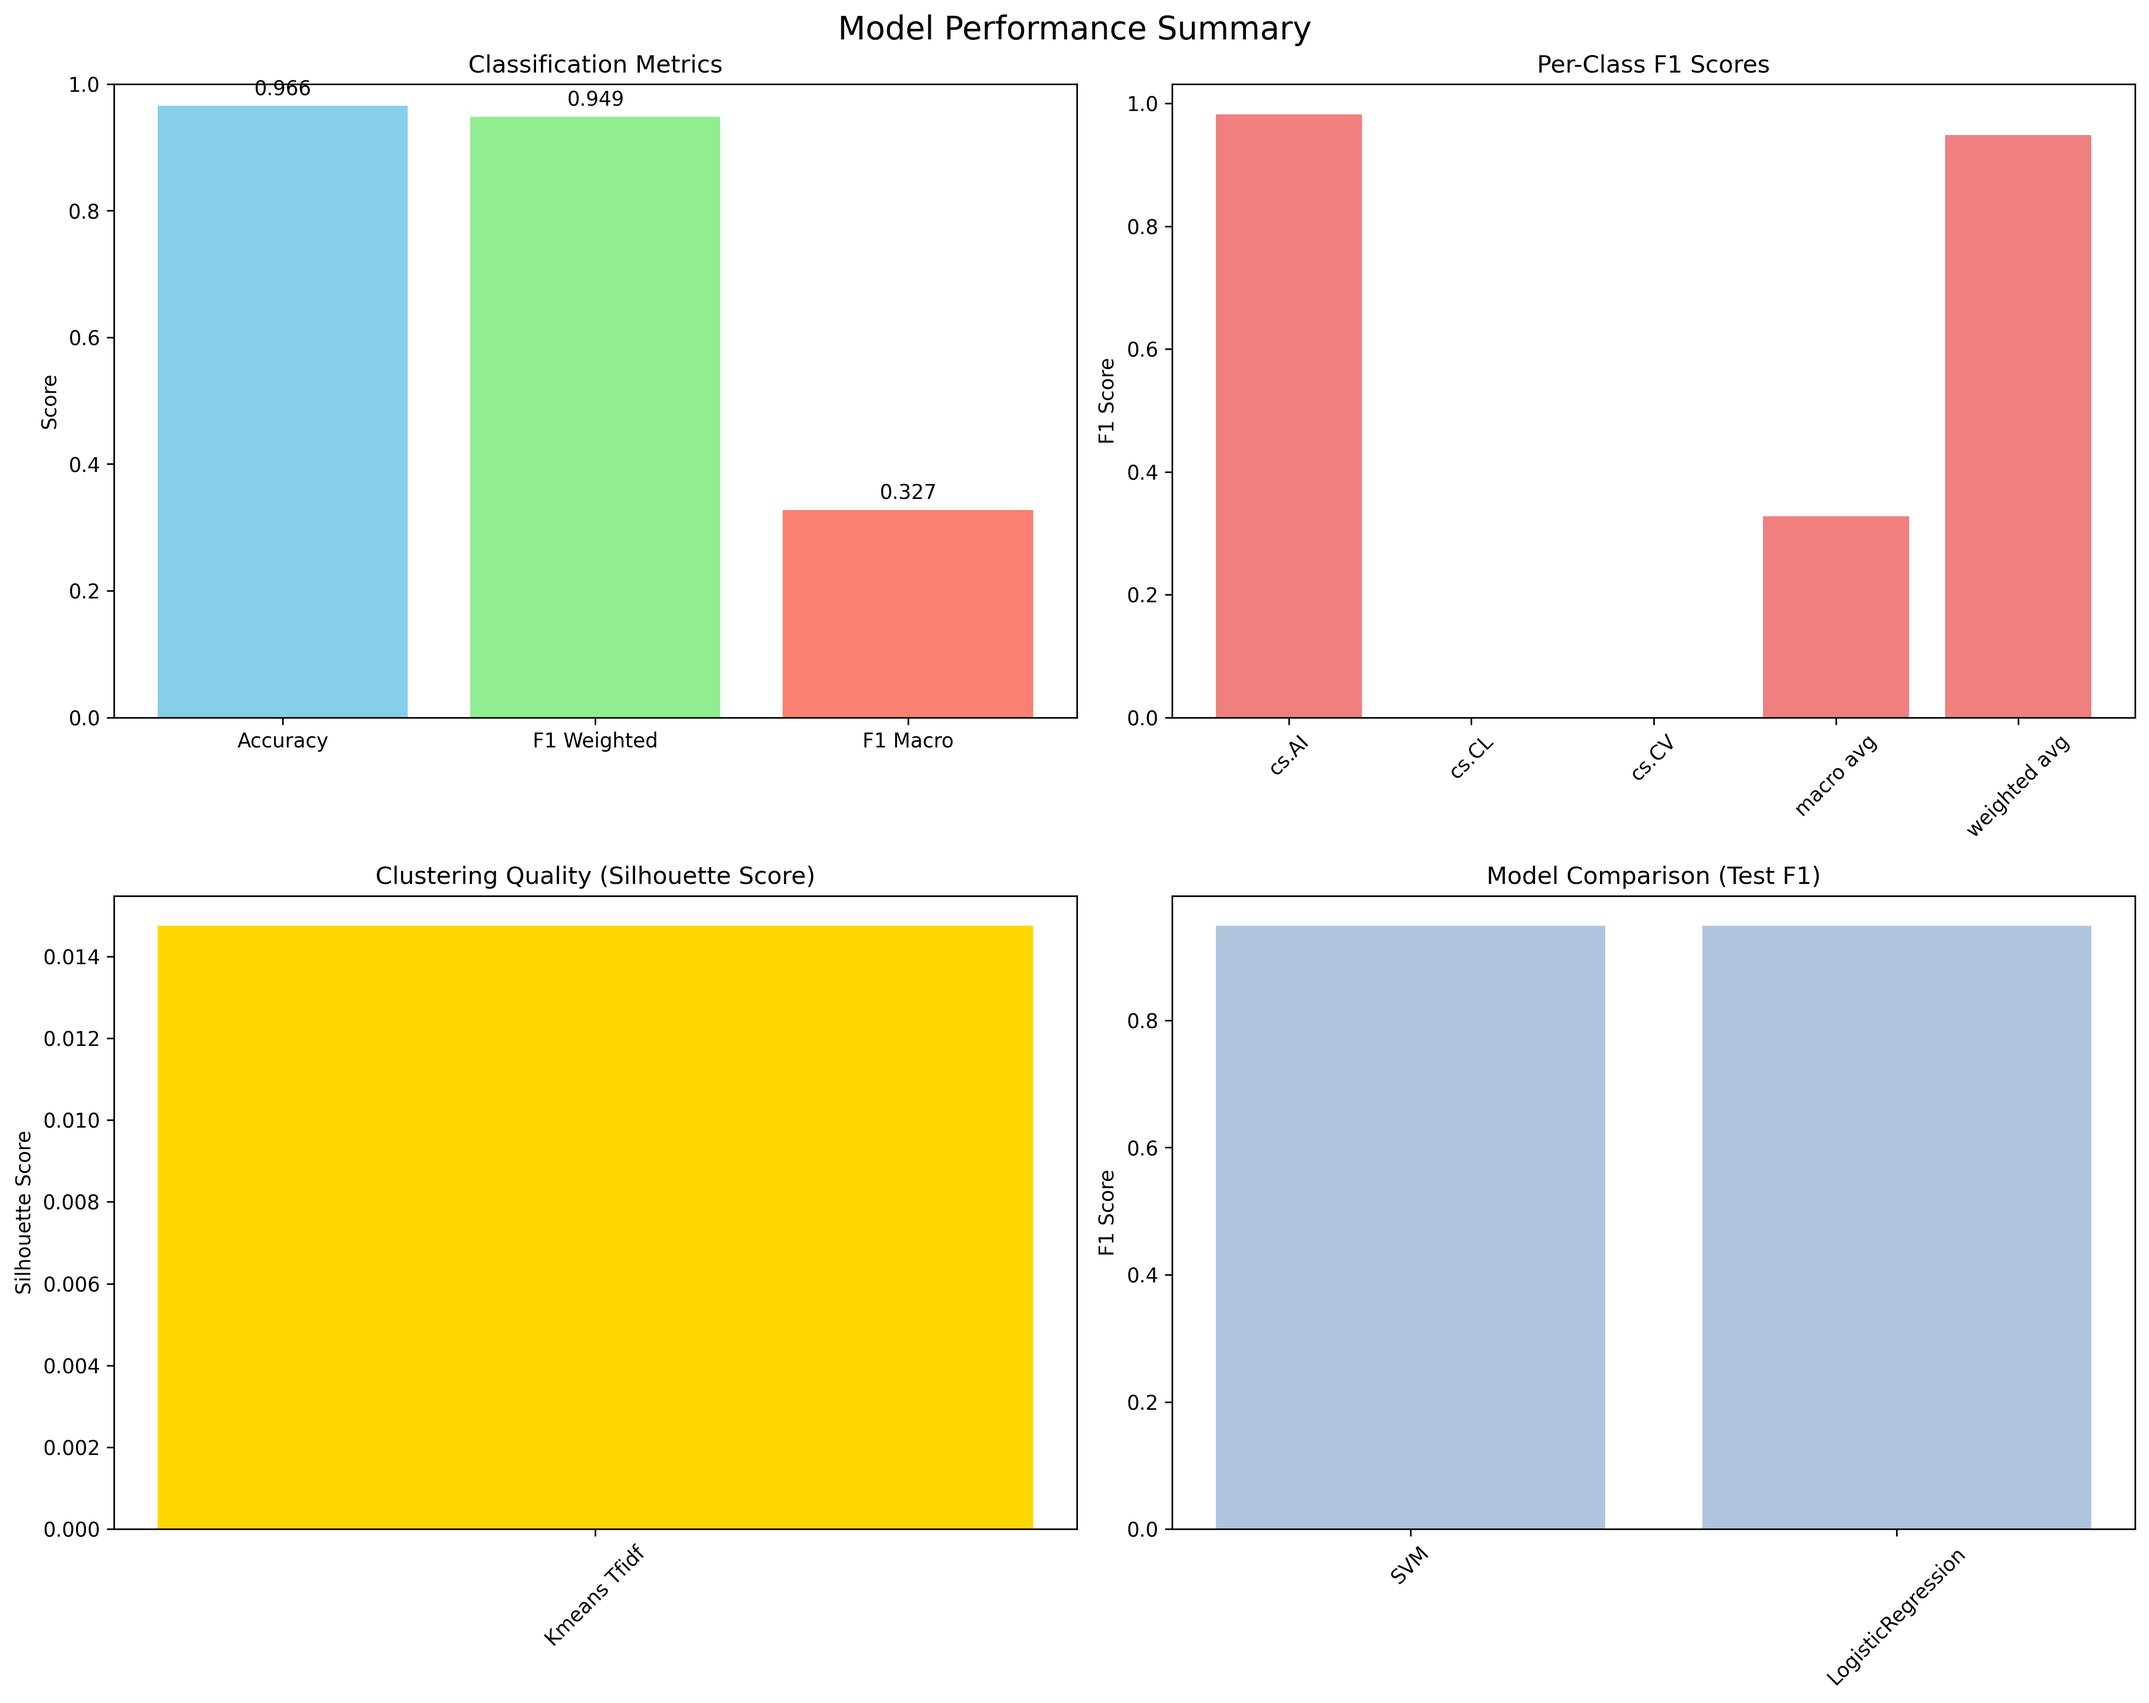
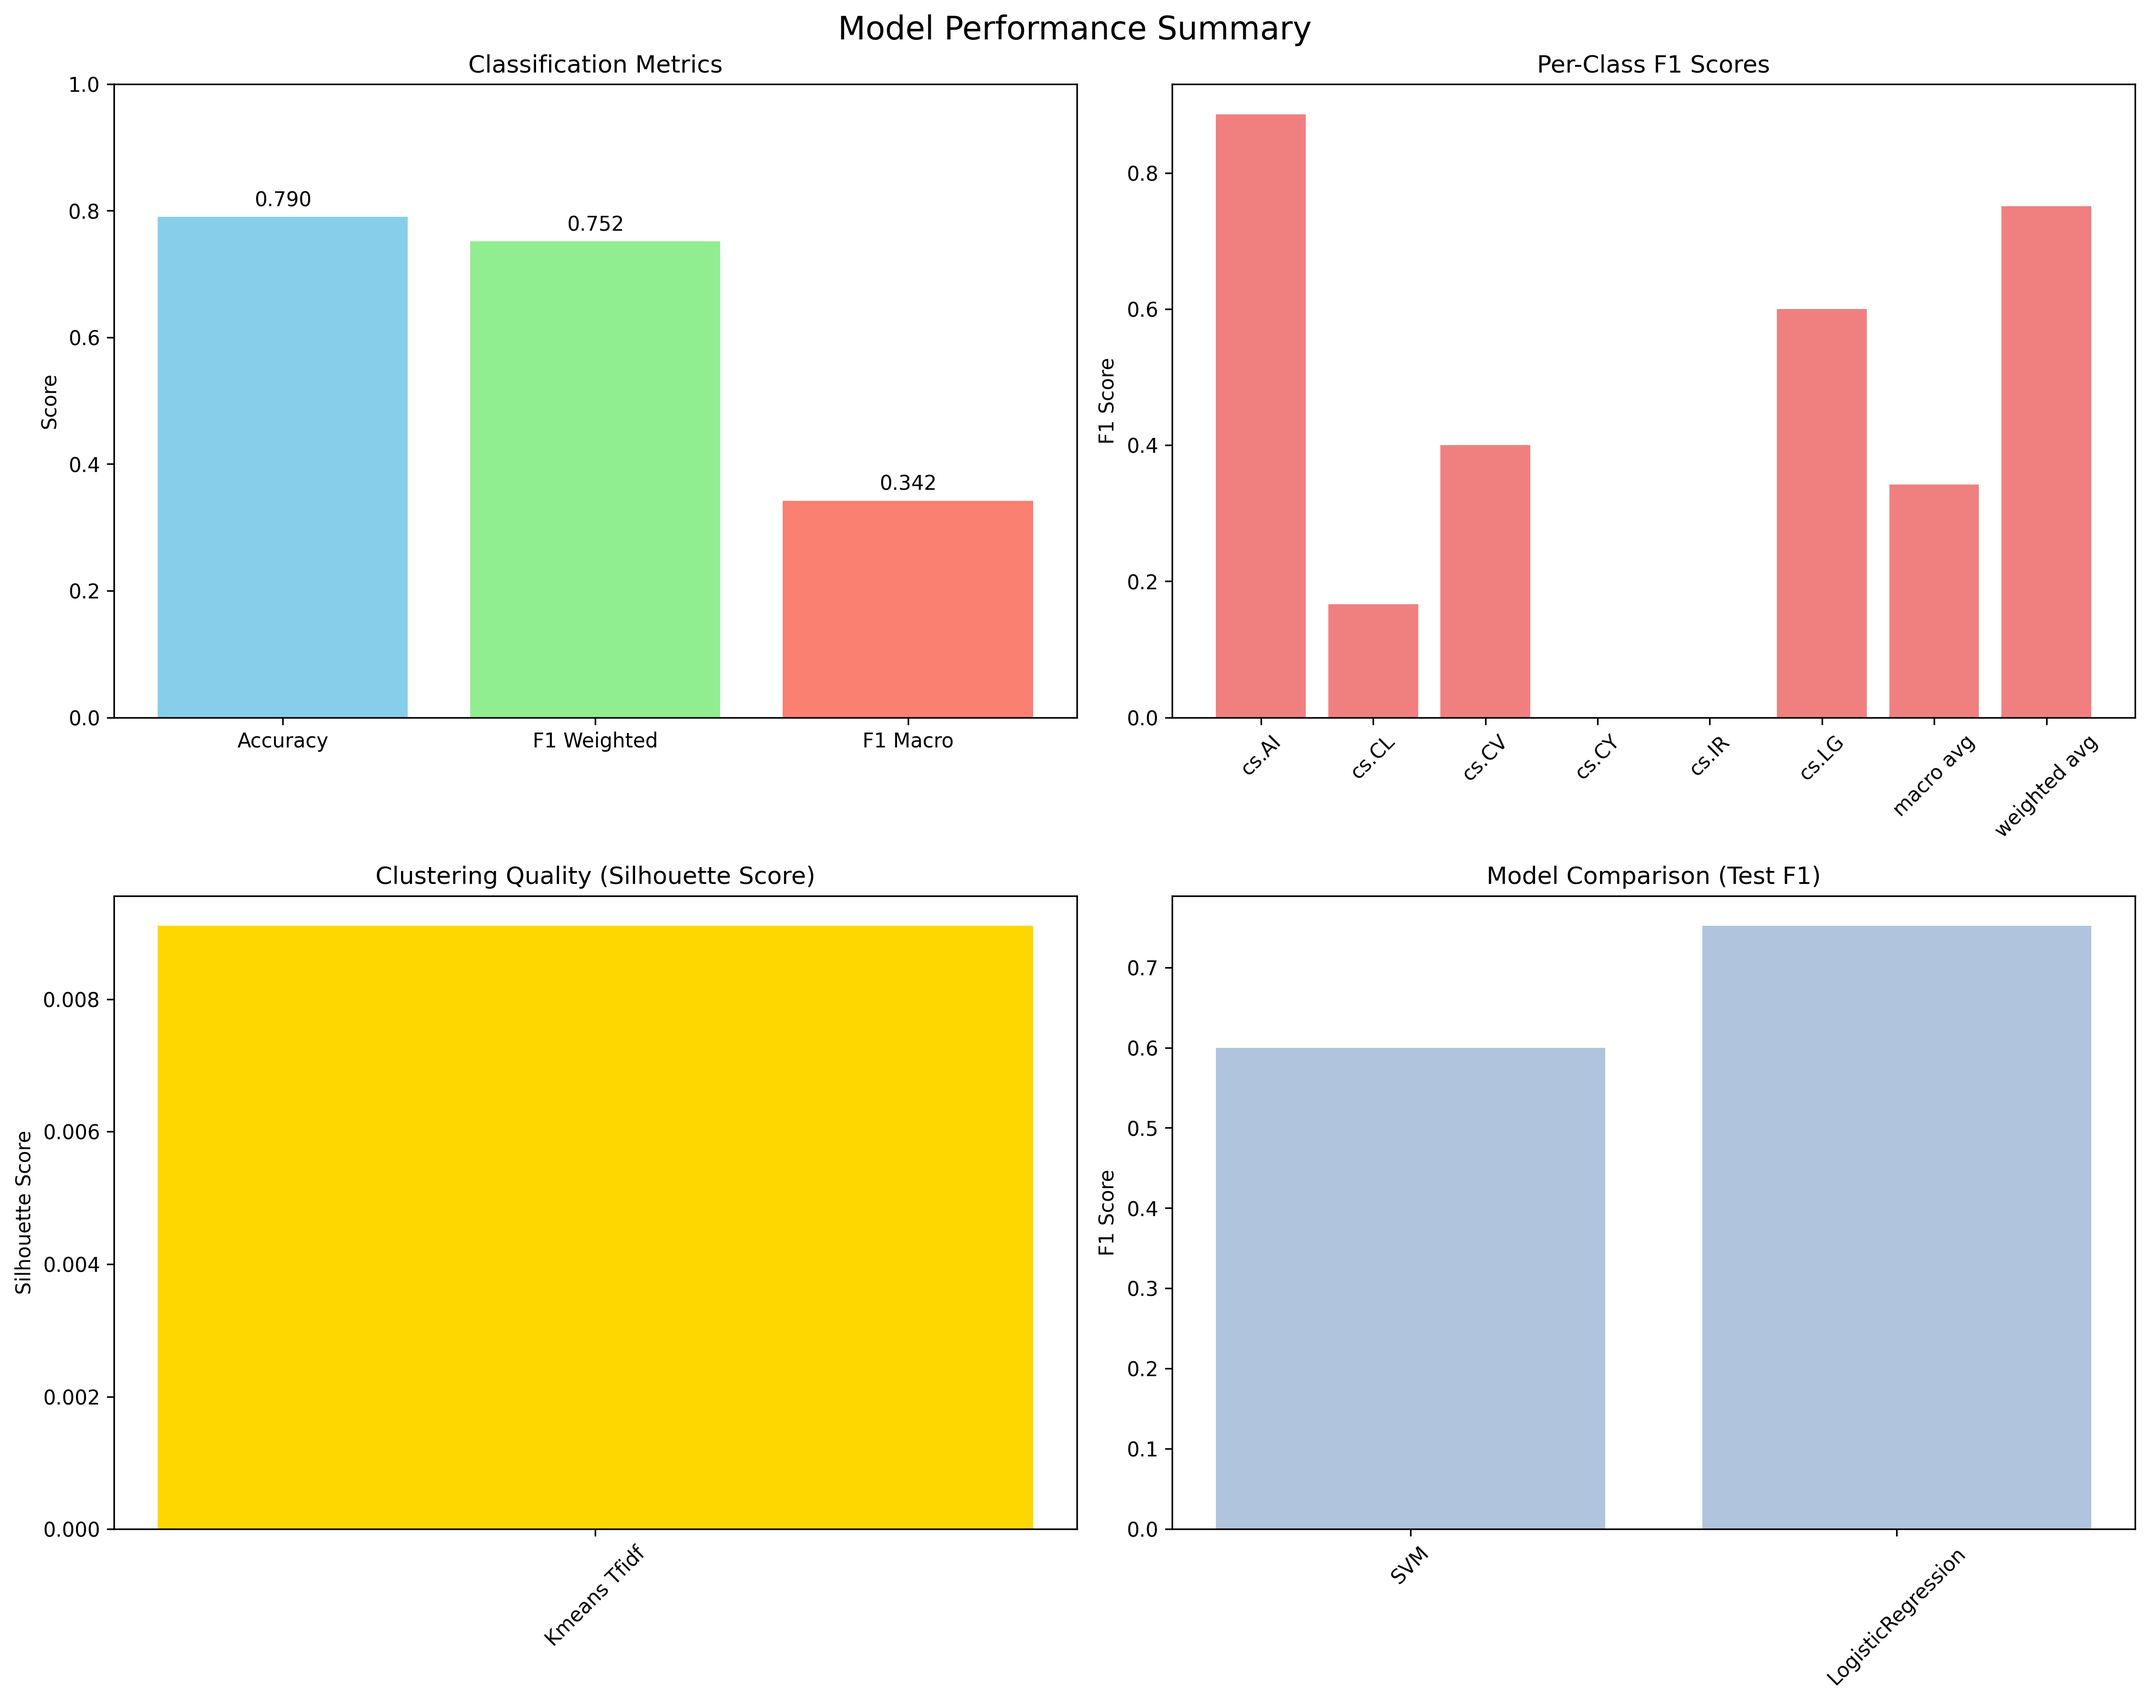
feat: Update configuration and fetching logic for ArXiv papers; optimize model settings and evaluation metrics

diff --git a/phase_crawl/fetch_papers.py b/phase_crawl/fetch_papers.py
@@ -7,18 +7,18 @@ from typing import Any, Dict, List
 import feedparser
 import requests
 
-from .config import CATEGORIES, DAYS_BACK, MAX_RESULTS, REQUEST_TIMEOUT
+from .config import CATEGORIES, DAYS_BACK, MAX_RESULTS_PER_CATEGORY, REQUEST_TIMEOUT
 from .utils import get_logger
 
 logger = get_logger(__name__)
 
 
-def build_query(categories: List[str], max_results: int, days_back: int) -> str:
+def build_query_for_category(category: str, max_results: int, days_back: int) -> str:
     """
-    Build ArXiv API URL with filters.
+    Build ArXiv API URL for a single category.
 
     Args:
-        categories: List of ArXiv categories to search
+        category: ArXiv category to search
         max_results: Maximum number of results to return
         days_back: Number of days back from today to search
 
@@ -27,12 +27,8 @@ def build_query(categories: List[str], max_results: int, days_back: int) -> str:
     """
     base_url = "http://export.arxiv.org/api/query?"
 
-    # Build category query
-    if categories:
-        cat_query = " OR ".join([f"cat:{cat}" for cat in categories])
-        search_query = f"({cat_query})"
-    else:
-        search_query = "all"
+    # Build category query for single category
+    search_query = f"cat:{category}"
 
     # Add date range
     end_date = datetime.now()
@@ -118,3 +114,27 @@ def _parse_entry(entry: feedparser.FeedParserDict) -> Dict[str, Any]:
         "pdf_downloaded": False,
         "pdf_processed": False,
     }
+
+
+def fetch_balanced_papers() -> List[Dict[str, Any]]:
+    """
+    Fetch equal numbers of papers from each category for balanced dataset.
+
+    Returns:
+        List of paper dictionaries with balanced categories
+    """
+    all_papers = []
+    
+    for category in CATEGORIES:
+        logger.info(f"Fetching {MAX_RESULTS_PER_CATEGORY} papers from {category}")
+        query_url = build_query_for_category(category, MAX_RESULTS_PER_CATEGORY, DAYS_BACK)
+        papers = fetch_papers(query_url)
+        
+        # Add category filter to ensure correct categorization
+        filtered_papers = [p for p in papers if category in p["categories"]]
+        logger.info(f"Got {len(filtered_papers)} papers for {category}")
+        
+        all_papers.extend(filtered_papers[:MAX_RESULTS_PER_CATEGORY])
+    
+    logger.info(f"Total balanced papers collected: {len(all_papers)}")
+    return all_papers

diff --git a/phase_learn/encode_embeddings.py b/phase_learn/encode_embeddings.py
@@ -2,16 +2,17 @@
 """Generate and save embeddings for text data."""
 
 import numpy as np
+import torch
 from sentence_transformers import SentenceTransformer
 from .config import (DATA_DIR, EMBEDDINGS_DIR, ML_DATASET_FILE, 
-                     EMBEDDING_MODEL, EMBEDDINGS_FILE)
+                     EMBEDDING_MODEL, EMBEDDINGS_FILE, BATCH_SIZE)
 from .utils import get_logger, load_ml_dataset
 
 logger = get_logger(__name__)
 
 def generate_embeddings(documents: list[str], model_name: str) -> np.ndarray:
     """
-    Generate sentence embeddings for a list of documents.
+    Generate sentence embeddings for a list of documents with GPU optimization.
 
     Args:
         documents: A list of text documents to embed.
@@ -21,12 +22,28 @@ def generate_embeddings(documents: list[str], model_name: str) -> np.ndarray:
         A numpy array of embeddings.
     """
     try:
+        # Check GPU availability
+        device = 'cuda' if torch.cuda.is_available() else 'cpu'
+        logger.info(f"Using device: {device}")
+        
         logger.info(f"Loading sentence transformer model: {model_name}")
-        model = SentenceTransformer(model_name)
+        model = SentenceTransformer(model_name, device=device)
+        
+        # Set to evaluation mode for inference
+        model.eval()
+        
         logger.info("Model loaded. Generating embeddings...")
-        embeddings = model.encode(documents, show_progress_bar=True)
-        logger.info(f"Generated {len(embeddings)} embeddings.")
+        # Use batch_size for GPU memory optimization
+        embeddings = model.encode(
+            documents, 
+            show_progress_bar=True,
+            batch_size=BATCH_SIZE,
+            convert_to_numpy=True
+        )
+        
+        logger.info(f"Generated {len(embeddings)} embeddings using {model_name}")
         return embeddings
+        
     except Exception as e:
         logger.error(f"Failed to generate embeddings: {e}")
         return np.array([])

diff --git a/phase_crawl/main_crawl.py b/phase_crawl/main_crawl.py
@@ -6,12 +6,12 @@ from pathlib import Path
 
 from .config import (
     CATEGORIES, CHROMA_COLLECTION, CHROMA_PATH, DAYS_BACK, DB_NAME,
-    EMBEDDING_TEXT_LENGTH, MAX_PDF_COUNT, MAX_RESULTS, MAX_TEXT_LENGTH,
+    EMBEDDING_TEXT_LENGTH, MAX_PDF_COUNT, MAX_RESULTS_PER_CATEGORY, MAX_TEXT_LENGTH,
     MONGO_URI, PDF_DIR, RATE_LIMIT_DELAY,
 )
 from .download_pdf import download_pdf
 from .extract_text import extract_text
-from .fetch_papers import build_query, fetch_papers
+from .fetch_papers import fetch_balanced_papers
 from .process_existing import get_existing_pdfs, process_existing_pdfs
 from .store_chromadb import get_chroma_collection, store_embedding
 from .store_mongodb import connect_mongo, upsert_paper_metadata
@@ -53,15 +53,9 @@ def run_crawl_phase() -> bool:
             logger.info("Skipping new downloads, crawl phase complete")
             return True
         
-        # Calculate how many new papers we can download
-        remaining_slots = MAX_PDF_COUNT - current_pdf_count
-        download_limit = min(MAX_RESULTS, remaining_slots)
-        
-        logger.info(f"Can download up to {download_limit} new papers")
-        
-        # Build query and fetch papers
-        query_url = build_query(CATEGORIES, download_limit, DAYS_BACK)
-        papers = fetch_papers(query_url)
+        # Fetch balanced papers from all categories
+        logger.info(f"Fetching balanced dataset ({MAX_RESULTS_PER_CATEGORY} per category)")
+        papers = fetch_balanced_papers()
         
         if not papers:
             logger.warning("No new papers found")

diff --git a/phase_crawl/store_chromadb.py b/phase_crawl/store_chromadb.py
@@ -4,6 +4,7 @@
 from typing import Any, Dict
 
 import chromadb
+from chromadb.utils import embedding_functions
 
 from .config import CHROMA_COLLECTION, CHROMA_PATH
 from .utils import get_logger
@@ -13,7 +14,7 @@ logger = get_logger(__name__)
 
 def get_chroma_collection(path: str, name: str):
     """
-    Get or create ChromaDB collection.
+    Get or create ChromaDB collection with DistilBERT embeddings.
 
     Args:
         path: Path to ChromaDB storage
@@ -24,11 +25,19 @@ def get_chroma_collection(path: str, name: str):
     """
     try:
         client = chromadb.PersistentClient(path=path)
+        
+        # Use DistilBERT embedding function for consistency
+        embedding_fn = embedding_functions.SentenceTransformerEmbeddingFunction(
+            model_name="distilbert-base-uncased"
+        )
+        
         collection = client.get_or_create_collection(
-            name=name, metadata={"description": "ArXiv paper embeddings"}
+            name=name, 
+            metadata={"description": "ArXiv paper embeddings with DistilBERT"},
+            embedding_function=embedding_fn
         )
 
-        logger.info(f"Connected to ChromaDB collection: {name}")
+        logger.info(f"Connected to ChromaDB collection: {name} with DistilBERT")
         return collection
 
     except Exception as e:

diff --git a/phase_learn/config.py b/phase_learn/config.py
@@ -17,14 +17,14 @@ ML_DATASET_FILE = DATA_DIR / "metadata" / "ml_dataset.json.gz"
 EMBEDDINGS_FILE = EMBEDDINGS_DIR / "embeddings.npy"
 TOPIC_MODEL_FILE = TOPIC_MODEL_DIR / "bertopic_model.pkl"
 
-# Model Configuration
-EMBEDDING_MODEL = "all-MiniLM-L6-v2"
+# Model Configuration - Optimized for 4GB GPU
+EMBEDDING_MODEL = "distilbert-base-uncased"  # Better than MiniLM, fits 4GB GPU
 TOPIC_MODEL_TYPE = "bertopic"  # or "lda"
 NUM_TOPICS = 10
 NUM_CLUSTERS = 5
 
-# Training Parameters
-BATCH_SIZE = 32
+# Training Parameters - GPU-optimized
+BATCH_SIZE = 16  # Reduced for GPU memory
 MAX_EPOCHS = 100
 LEARNING_RATE = 0.001
 

diff --git a/phase_crawl/config.py b/phase_crawl/config.py
@@ -13,12 +13,12 @@ CHROMA_PATH = "./chroma_db"
 CHROMA_COLLECTION = "arxiv_embeddings"
 
 # ArXiv Search Configuration
-CATEGORIES = ["cs.AI", "cs.LG", "cs.CL"]
-MAX_RESULTS = 10
-DAYS_BACK = 90
+CATEGORIES = ["cs.GR", "cs.LG", "cs.CL"]
+MAX_RESULTS_PER_CATEGORY = 100  # Balanced download per category
+DAYS_BACK = 365  # Increased to get more papers
 
 # PDF Processing Limits
-MAX_PDF_COUNT = 400  # Don't download more if we already have this many
+MAX_PDF_COUNT = 300  # Total across all categories (100 per category)
 
 # Directory Paths
 BASE_DIR = Path(".")
